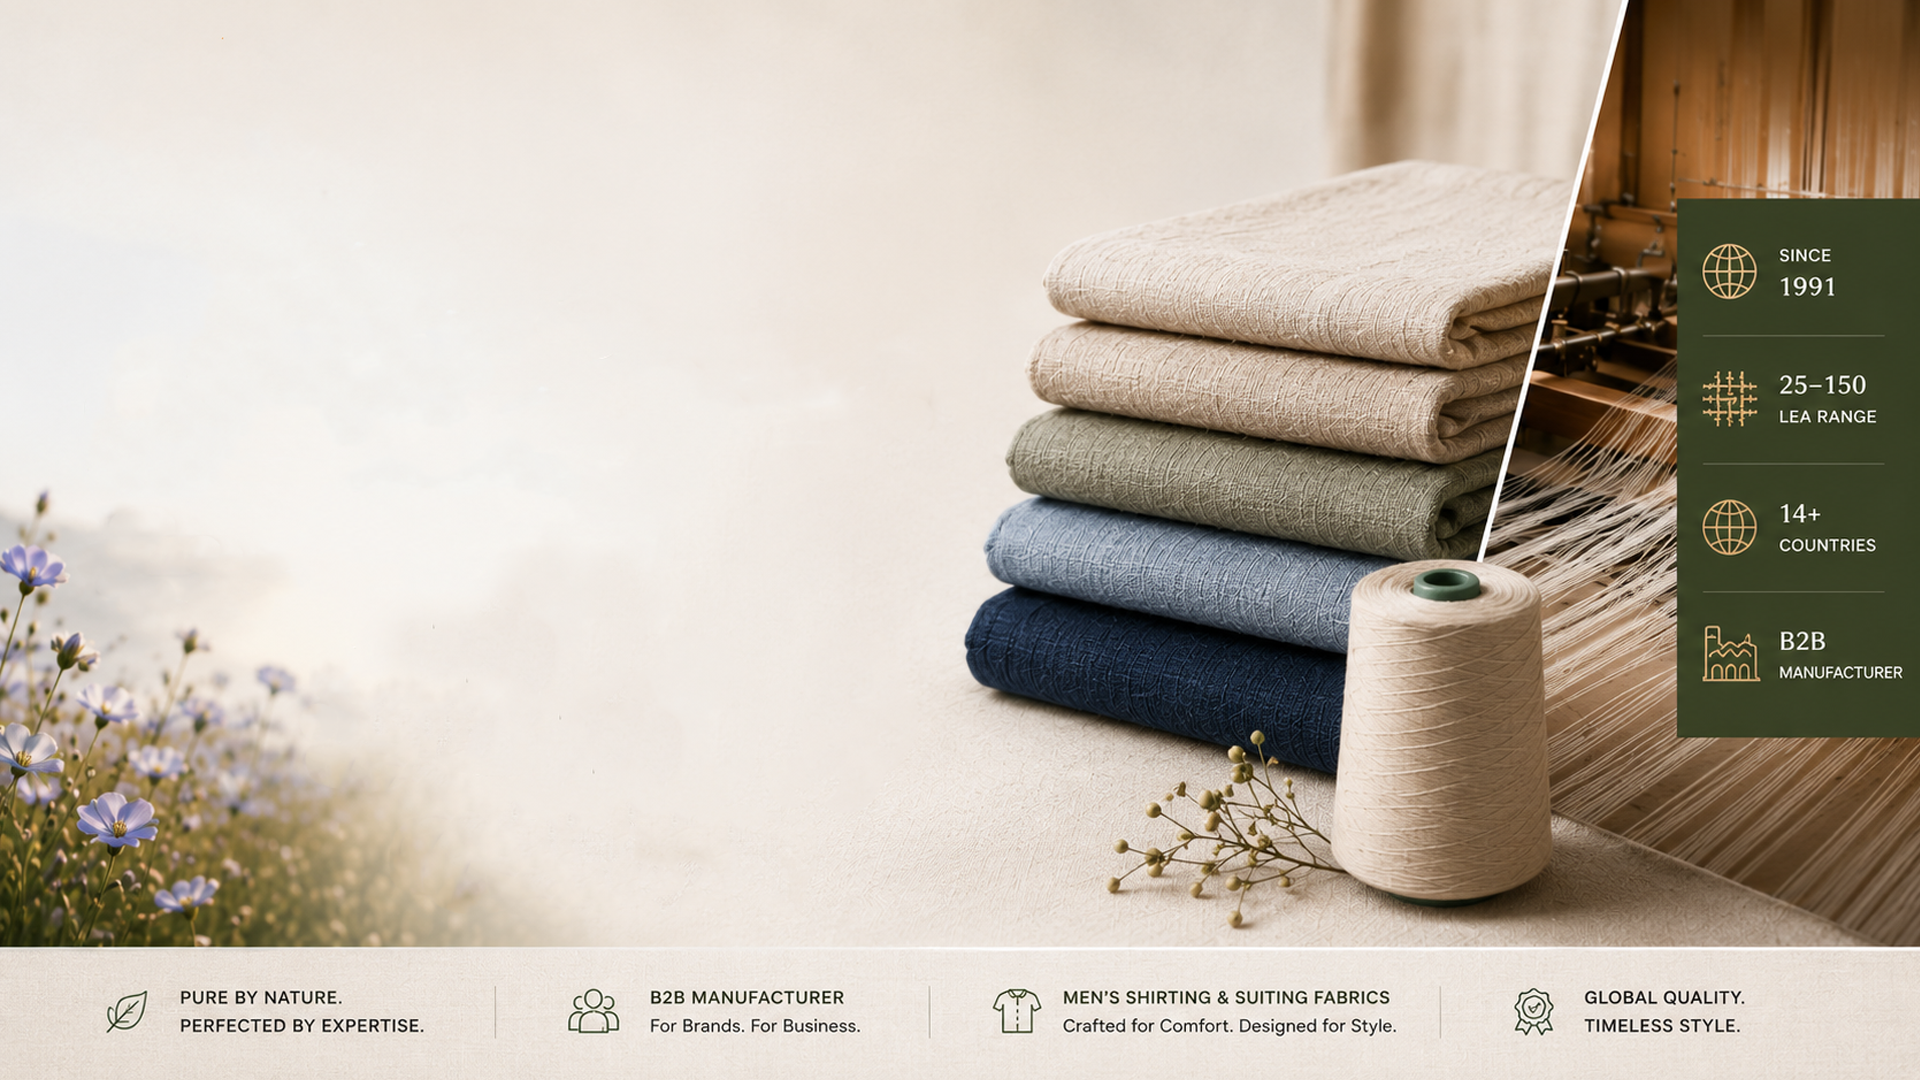
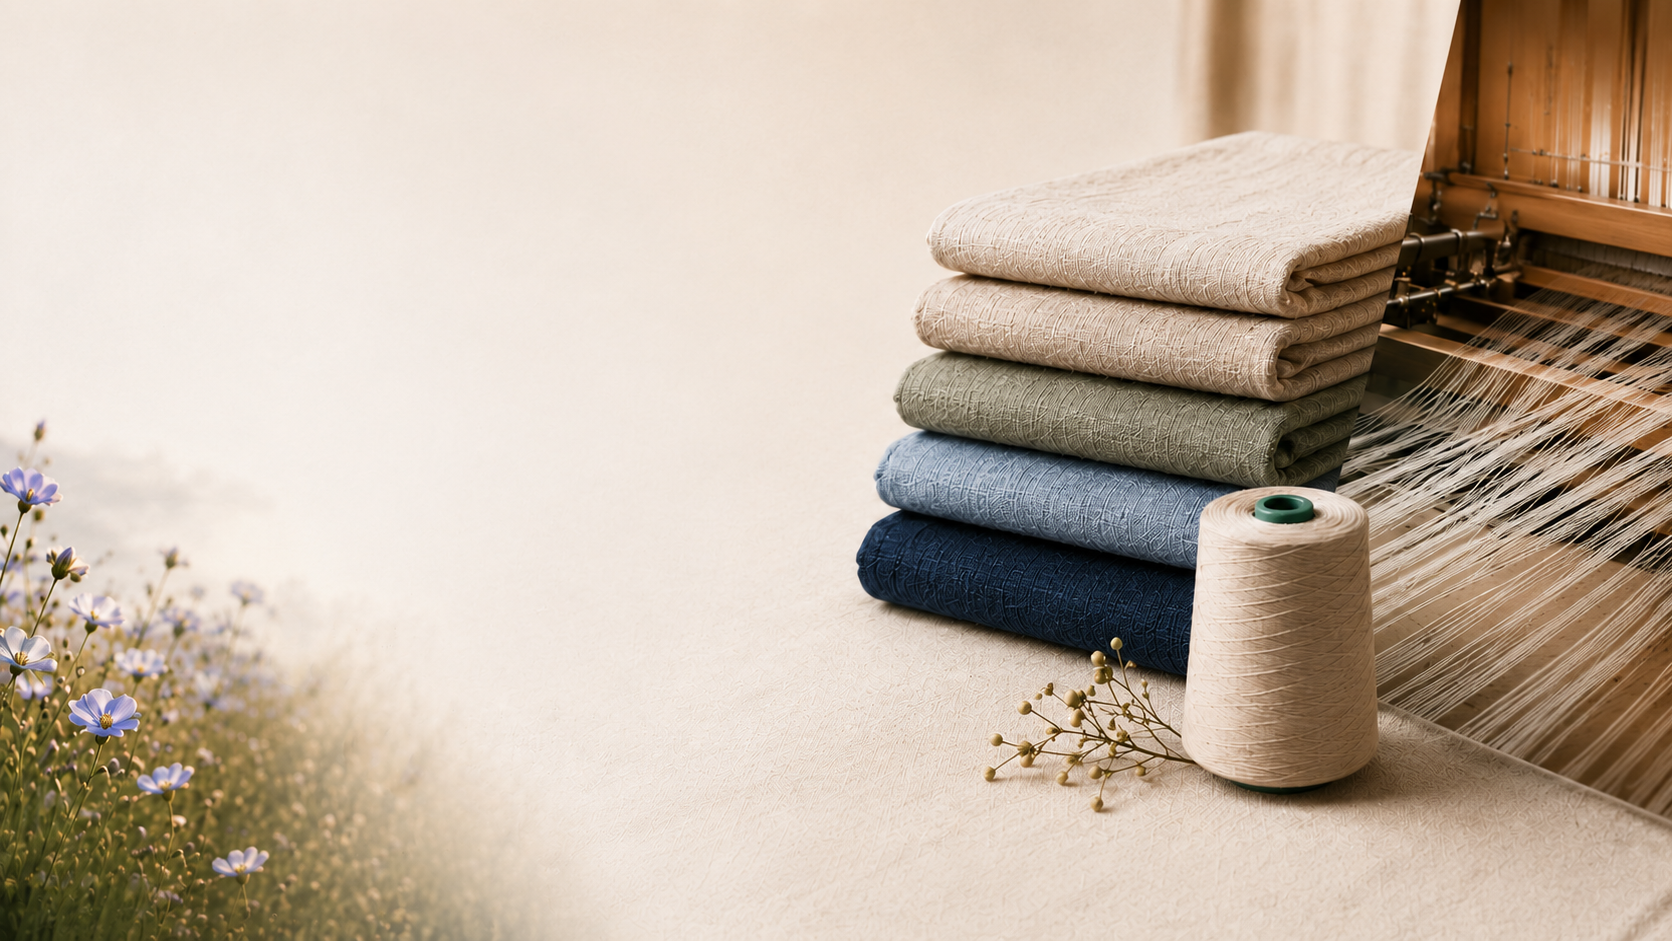
home page done

diff --git a/src/components/home/FlaxToFabric.tsx b/src/components/home/FlaxToFabric.tsx
@@ -2,17 +2,49 @@
 
 import { useState, useEffect } from "react";
 import Image from "next/image";
+import { motion, AnimatePresence } from "framer-motion";
 import FadeInOnScroll from "@/components/shared/FadeInOnScroll";
 
 const steps = [
-  { id: "flax",   label: "Flax",   description: "Natural plant origin", image: "/images/process/Flax.png"   },
-  { id: "fiber",  label: "Fiber",  description: "Retted & processed",   image: "/images/process/Fiber.png"  },
-  { id: "yarn",   label: "Yarn",   description: "Spun to count",        image: "/images/process/Yarn.png"   },
-  { id: "weave",  label: "Weave",  description: "Precision crafted",    image: "/images/process/Weave.png"  },
-  { id: "fabric", label: "Fabric", description: "Premium finish",       image: "/images/process/Fabric.png" },
+  {
+    id:          "flax",
+    label:       "Flax",
+    description: "Natural plant origin",
+    body:        "Everything begins with the finest European flax — a natural fibre harvested from the linen plant. Its inherent strength, breathability, and texture form the foundation of every premium fabric we create.",
+    image:       "/images/process/Flax.png",
+  },
+  {
+    id:          "fiber",
+    label:       "Fiber",
+    description: "Retted & processed",
+    body:        "Through careful retting and scutching, raw flax stalks are transformed into long, clean fibres ready for spinning. This stage determines the softness, lustre, and fineness of the final fabric.",
+    image:       "/images/process/Fiber.png",
+  },
+  {
+    id:          "yarn",
+    label:       "Yarn",
+    description: "Spun to count",
+    body:        "Processed fibres are spun into yarn across our precise count range of 25–150 LEA. Higher counts yield finer, lighter fabrics while lower counts produce structured, robust textiles for tailoring.",
+    image:       "/images/process/Yarn.png",
+  },
+  {
+    id:          "weave",
+    label:       "Weave",
+    description: "Precision crafted",
+    body:        "Our European-standard looms interlace the yarn into distinct constructions — plain weave, twill, and blends. Precision weaving defines the drape, texture, and character of every metre produced.",
+    image:       "/images/process/Weave.png",
+  },
+  {
+    id:          "fabric",
+    label:       "Fabric",
+    description: "Premium finish",
+    body:        "Each roll undergoes finishing, quality inspection, and colour treatment before dispatch. The result is a premium linen fabric that meets international export standards and exacting brand specifications.",
+    image:       "/images/process/Fabric.png",
+  },
 ];
 
-const DURATION = 2400;
+const DURATION = 2800;
+const EASE = [0.25, 0.1, 0.25, 1] as const;
 
 export default function FlaxToFabric() {
   const [active, setActive] = useState(0);
@@ -27,8 +59,8 @@ export default function FlaxToFabric() {
   return (
     <section className="w-full" style={{ backgroundColor: "var(--color-bg-secondary)" }}>
 
-      {/* Section label */}
-      <div className="container-site pt-16 pb-8 md:pt-20 md:pb-10">
+      {/* Section heading */}
+      <div className="container-site pt-14 pb-8 md:pt-16 md:pb-10">
         <FadeInOnScroll direction="up">
           <div className="flex items-center gap-4">
             <span className="text-label" style={{ color: "var(--color-accent)" }}>
@@ -45,7 +77,7 @@ export default function FlaxToFabric() {
         </FadeInOnScroll>
       </div>
 
-      {/* 5-panel strip */}
+      {/* 5-panel image strip */}
       <div
         className="w-full flex overflow-x-auto no-scrollbar"
         onMouseEnter={() => setPaused(true)}
@@ -57,8 +89,8 @@ export default function FlaxToFabric() {
             <button
               key={step.id}
               onClick={() => setActive(i)}
-              className="relative flex-1 min-w-[200px] overflow-hidden cursor-pointer text-left"
-              style={{ minHeight: "clamp(280px, 35vw, 480px)", background: "none", border: "none", padding: 0 }}
+              className="relative flex-1 min-w-[180px] overflow-hidden cursor-pointer text-left"
+              style={{ minHeight: "clamp(240px, 28vw, 380px)", background: "none", border: "none", padding: 0 }}
             >
               {/* Photo */}
               <Image
@@ -68,18 +100,18 @@ export default function FlaxToFabric() {
                 sizes="(max-width: 768px) 50vw, 20vw"
                 className="object-cover object-center"
                 style={{
-                  transform: isActive ? "scale(1.06)" : "scale(1)",
+                  transform:  isActive ? "scale(1.06)" : "scale(1)",
                   transition: "transform 0.9s cubic-bezier(0.25, 0.1, 0.25, 1)",
                 }}
               />
 
-              {/* Dark overlay — lifts on active */}
+              {/* Overlay */}
               <div
                 className="absolute inset-0 pointer-events-none"
                 style={{
                   background: isActive
-                    ? "linear-gradient(to bottom, rgba(0,0,0,0.22) 0%, rgba(0,0,0,0.0) 45%, rgba(0,0,0,0.52) 100%)"
-                    : "linear-gradient(to bottom, rgba(0,0,0,0.48) 0%, rgba(0,0,0,0.08) 45%, rgba(0,0,0,0.62) 100%)",
+                    ? "linear-gradient(to bottom, rgba(0,0,0,0.18) 0%, rgba(0,0,0,0.0) 40%, rgba(0,0,0,0.55) 100%)"
+                    : "linear-gradient(to bottom, rgba(0,0,0,0.45) 0%, rgba(0,0,0,0.06) 40%, rgba(0,0,0,0.65) 100%)",
                   transition: "background 0.7s ease",
                 }}
               />
@@ -88,37 +120,37 @@ export default function FlaxToFabric() {
               <div
                 className="absolute bottom-0 left-0 right-0 pointer-events-none"
                 style={{
-                  height: "3px",
+                  height:          "3px",
                   backgroundColor: "var(--color-accent)",
-                  transform: isActive ? "scaleX(1)" : "scaleX(0)",
+                  transform:       isActive ? "scaleX(1)" : "scaleX(0)",
                   transformOrigin: "left",
-                  transition: "transform 0.55s cubic-bezier(0.25, 0.1, 0.25, 1)",
+                  transition:      "transform 0.55s cubic-bezier(0.25, 0.1, 0.25, 1)",
                 }}
               />
 
               {/* Step number */}
               <span
-                className="absolute top-6 left-6 font-display text-5xl font-normal select-none"
+                className="absolute top-5 left-5 font-display text-5xl font-normal select-none"
                 style={{
-                  color: "rgba(248,245,240,1)",
+                  color:      "rgba(248,245,240,1)",
                   lineHeight: 1,
-                  opacity: isActive ? 0.65 : 0.25,
+                  opacity:    isActive ? 0.65 : 0.22,
                   transition: "opacity 0.6s ease",
                 }}
               >
                 0{i + 1}
               </span>
 
-              {/* Arrow — inside panel, right edge, frosted glass */}
+              {/* Arrow connector */}
               {i < steps.length - 1 && (
                 <div
-                  className="absolute right-4 top-1/2 -translate-y-1/2 z-10 w-7 h-7 flex items-center justify-center rounded-full"
+                  className="absolute right-3 top-1/2 -translate-y-1/2 z-10 w-6 h-6 flex items-center justify-center rounded-full"
                   style={{
-                    backgroundColor: "rgba(255,255,255,0.15)",
-                    backdropFilter: "blur(6px)",
-                    border: "1px solid rgba(255,255,255,0.22)",
-                    color: "rgba(248,245,240,0.85)",
-                    fontSize: "0.7rem",
+                    backgroundColor: "rgba(255,255,255,0.14)",
+                    backdropFilter:  "blur(6px)",
+                    border:          "1px solid rgba(255,255,255,0.2)",
+                    color:           "rgba(248,245,240,0.85)",
+                    fontSize:        "0.65rem",
                   }}
                 >
                   →
@@ -127,17 +159,17 @@ export default function FlaxToFabric() {
 
               {/* Bottom label */}
               <div
-                className="absolute bottom-0 left-0 right-0 px-6 pb-6"
+                className="absolute bottom-0 left-0 right-0 px-5"
                 style={{
-                  paddingBottom: isActive ? "28px" : "24px",
-                  transition: "padding-bottom 0.55s ease",
+                  paddingBottom: isActive ? "26px" : "20px",
+                  transition:    "padding-bottom 0.55s ease",
                 }}
               >
                 <p
-                  className="font-display font-normal mb-1"
+                  className="font-display font-normal mb-0.5"
                   style={{
-                    fontSize: "clamp(1.25rem, 2.5vw, 1.75rem)",
-                    color: "rgba(248,245,240,0.95)",
+                    fontSize:      "clamp(1.1rem, 2.2vw, 1.6rem)",
+                    color:         "rgba(248,245,240,0.95)",
                     letterSpacing: "0.02em",
                   }}
                 >
@@ -146,8 +178,8 @@ export default function FlaxToFabric() {
                 <p
                   className="text-label"
                   style={{
-                    color: "rgba(248,245,240,0.95)",
-                    opacity: isActive ? 0.85 : 0.6,
+                    color:      "rgba(248,245,240,0.9)",
+                    opacity:    isActive ? 0.82 : 0.5,
                     transition: "opacity 0.5s ease",
                   }}
                 >
@@ -159,8 +191,51 @@ export default function FlaxToFabric() {
         })}
       </div>
 
+      {/* Active step detail — fades smoothly with each step change */}
+      <div
+        className="container-site py-7"
+        style={{ borderTop: "1px solid var(--color-border)" }}
+      >
+        <AnimatePresence mode="wait">
+          <motion.div
+            key={active}
+            initial={{ opacity: 0, y: 12 }}
+            animate={{ opacity: 1, y: 0 }}
+            exit={{ opacity: 0, y: -8 }}
+            transition={{ duration: 0.42, ease: EASE }}
+            className="flex items-start gap-6 md:gap-10"
+          >
+            {/* Large step number accent */}
+            <span
+              className="font-display font-normal shrink-0 hidden md:block leading-none select-none"
+              style={{ fontSize: "3.5rem", color: "var(--color-accent)", opacity: 0.22 }}
+            >
+              0{active + 1}
+            </span>
+
+            <div>
+              <h3
+                className="font-display font-normal mb-2"
+                style={{ fontSize: "var(--text-h3)", color: "var(--color-text-primary)" }}
+              >
+                {steps[active].label}
+              </h3>
+              <p
+                className="text-sm leading-relaxed max-w-2xl"
+                style={{ color: "var(--color-text-secondary)" }}
+              >
+                {steps[active].body}
+              </p>
+            </div>
+          </motion.div>
+        </AnimatePresence>
+      </div>
+
       {/* Progress dots */}
-      <div className="flex justify-center gap-2 py-5" style={{ borderTop: "1px solid var(--color-border)" }}>
+      <div
+        className="flex justify-center gap-2 py-4"
+        style={{ borderTop: "1px solid var(--color-border)" }}
+      >
         {steps.map((step, i) => (
           <button
             key={step.id}
@@ -171,11 +246,10 @@ export default function FlaxToFabric() {
             <span
               className="block rounded-full"
               style={{
-                width: i === active ? "2rem" : "0.5rem",
-                height: "2px",
-                backgroundColor:
-                  i === active ? "var(--color-accent)" : "var(--color-border)",
-                transition: "width 0.4s ease, background-color 0.4s ease",
+                width:           i === active ? "2rem" : "0.5rem",
+                height:          "2px",
+                backgroundColor: i === active ? "var(--color-accent)" : "var(--color-border)",
+                transition:      "width 0.4s ease, background-color 0.4s ease",
               }}
             />
           </button>
@@ -184,10 +258,11 @@ export default function FlaxToFabric() {
 
       {/* Tagline */}
       <div className="w-full pb-5 text-center">
-        <p className="text-label tracking-[0.25em]" style={{ color: "var(--color-text-muted)" }}>
+        <p className="text-label tracking-[0.22em]" style={{ color: "var(--color-text-muted)" }}>
           Natural by Origin&nbsp;&nbsp;·&nbsp;&nbsp;Refined by Expertise&nbsp;&nbsp;·&nbsp;&nbsp;Made for Life
         </p>
       </div>
+
     </section>
   );
 }

diff --git a/src/app/globals.css b/src/app/globals.css
@@ -10,8 +10,10 @@
   --color-bg-secondary:   #EDE8E0;
   --color-bg-dark:        #1C1C1A;
 
+  --color-forest:         #2C4A2D;
+
   --color-text-primary:   #1C1C1A;
-  --color-text-secondary: #6B6560;
+  --color-text-secondary: #2C4A2D;
   --color-text-muted:     #9C9490;
   --color-text-light:     #F8F5F0;
 
@@ -19,8 +21,8 @@
   --color-accent-hover:   #8B7560;
   --color-accent-light:   #C4B09A;
 
-  --color-cta:            #5C8A65;
-  --color-cta-hover:      #4E7A57;
+  --color-cta:            #2C4A2D;
+  --color-cta-hover:      #1E3520;
 
   --color-border:         #E5DED5;
   --color-border-dark:    #2E2E2C;

diff --git a/src/components/home/HeroBanner.tsx b/src/components/home/HeroBanner.tsx
@@ -7,7 +7,7 @@ import { motion, AnimatePresence } from "framer-motion";
 import { Leaf, Users, Award, Shirt } from "lucide-react";
 
 // ── Hero-specific colour palette ─────────────────────────────────────
-const FOREST = "#2C4A2D";
+const FOREST = "var(--color-forest)";
 const TERRA  = "#B5442D";
 const GOLD   = "#C9A452";
 const CREAM  = "#F8F5F0";
@@ -81,7 +81,7 @@ function Flourish({ color }: { color: string }) {
   return (
     <div className="flex items-center gap-2.5 my-5">
       <span className="block h-px w-12" style={{ backgroundColor: color, opacity: 0.38 }} />
-      <Leaf size={12} color={color} style={{ opacity: 0.6 }} />
+      <Leaf size={12} style={{ color, opacity: 0.6 }} />
       <span className="block h-px w-6"  style={{ backgroundColor: color, opacity: 0.22 }} />
     </div>
   );
@@ -160,8 +160,7 @@ export default function HeroBanner() {
                 <div className="flex items-center gap-2 mb-4">
                   <Leaf
                     size={11}
-                    color={slide.isDark ? GOLD : FOREST}
-                    style={{ opacity: 0.6 }}
+                    style={{ color: slide.isDark ? GOLD : FOREST, opacity: 0.6 }}
                   />
                   <p
                     className="font-medium tracking-widest uppercase"

diff --git a/src/components/layout/Footer.tsx b/src/components/layout/Footer.tsx
@@ -55,6 +55,12 @@ export default function Footer() {
                   width: "auto",
                 }}
               />
+              <p
+                className="text-xs tracking-widest uppercase mt-1.5"
+                style={{ color: "var(--color-text-primary)" }}
+              >
+                Silverline Pvt. Ltd.
+              </p>
             </Link>
             <p
               className="text-sm leading-relaxed max-w-xs"

diff --git a/src/components/layout/Header.tsx b/src/components/layout/Header.tsx
@@ -33,8 +33,8 @@ export default function Header() {
     ? "bg-[var(--color-bg-primary)] border-b border-[var(--color-border)]"
     : "bg-transparent border-b border-transparent";
 
-  const linkColor = isSolid ? "var(--color-text-secondary)" : "rgba(248,245,240,0.88)";
-  const linkActiveColor = isSolid ? "var(--color-text-primary)" : "rgba(248,245,240,1)";
+  const linkColor = isSolid ? "var(--color-text-secondary)" : "var(--color-text-primary)";
+  const linkActiveColor = isSolid ? "var(--color-text-primary)" : "var(--color-text-primary)";
 
   return (
     <>

diff --git a/src/components/home/ArtAndScience.tsx b/src/components/home/ArtAndScience.tsx
@@ -5,7 +5,7 @@ import { Factory, Layers, BadgeCheck, Globe, Leaf } from "lucide-react";
 import { motion, useInView } from "framer-motion";
 import { useRef } from "react";
 
-const FOREST    = "#2C4A2D";
+const FOREST    = "var(--color-forest)";
 const FOREST_72 = "rgba(44,74,45,0.72)";
 const FOREST_55 = "rgba(44,74,45,0.55)";
 const FOREST_45 = "rgba(44,74,45,0.45)";